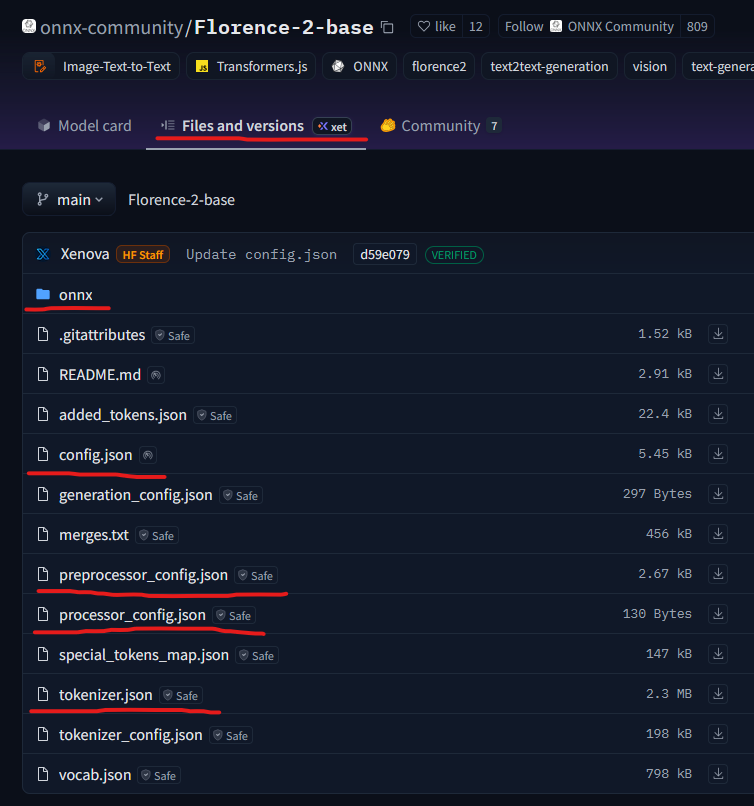
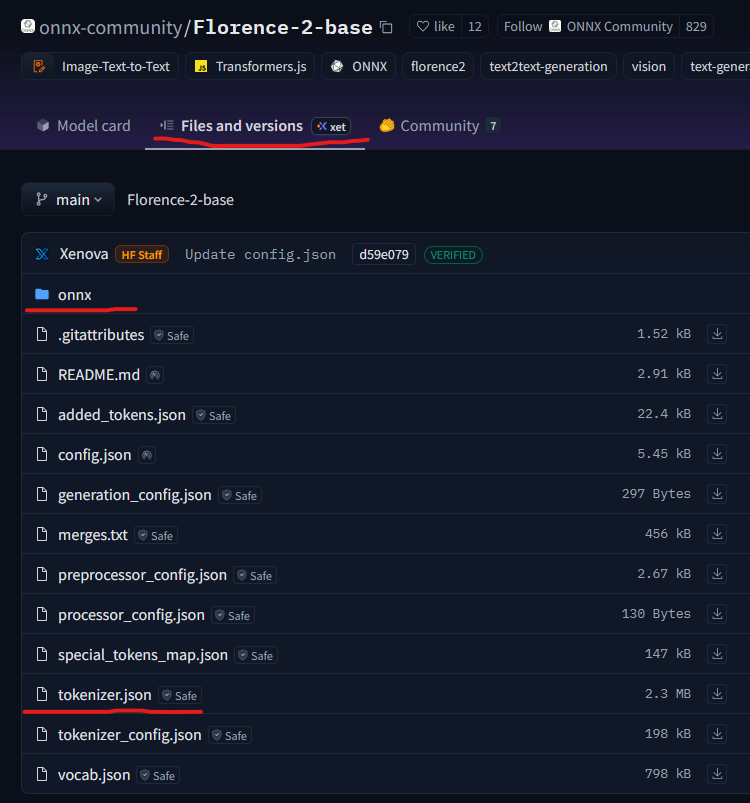
readme and code minor update

diff --git a/translate_overlay/interface/main_window.py b/translate_overlay/interface/main_window.py
@@ -169,11 +169,11 @@ class MainWindow(QMainWindow):
             self.controller.init_finished.connect(self._on_init_finished)
             self.controller.error_signal.connect(self._handle_error_message)
             self.controller.init_worker(
-                self.trd_path_edit.text(),
+                self.trd_path_edit.text().strip(),
                 self.ocr_model_dropdown.currentText(),
-                self.ocr_path_edit.text(), 
+                self.ocr_path_edit.text().strip(), 
                 self.translate_model_dropdown.currentText(),
-                self.translate_path_edit.text(), 
+                self.translate_path_edit.text().strip(), 
                 self.source_lang_dropdown.currentText(),
                 self.target_lang_dropdown.currentText(),
                 self.beam_size_spin.value(),
@@ -273,9 +273,9 @@ if __name__ == "__main__":
     window = MainWindow(
         trd_path="E:\\work\\1-personal\\CRAFT-onnx\\models",
         ocr_path="E:\\work\\1-personal\\Florence-2-base\\onnx\\onnx",
-        # translate_path="E:\\work\\1-personal\\madlad400-3b-mt\\onnx\\quantization\\optimum\\with_accelerate_weight_dedup",
+        translate_path="E:\\work\\1-personal\\madlad400-3b-mt\\onnx\\quantization\\optimum\\with_accelerate_weight_dedup",
         # translate_path="E:\\work\\1-personal\\gemma-3-1b-it-ONNX\\onnx",
-        translate_path="E:\\work\\1-personal\\gemma-3n-E2B-it-ONNX\\onnx",
+        # translate_path="E:\\work\\1-personal\\gemma-3n-E2B-it-ONNX\\onnx",
     )
     window.show()
     sys.exit(app.exec())

diff --git a/translate_overlay/translate/gemma3n.py b/translate_overlay/translate/gemma3n.py
@@ -2,7 +2,7 @@ import os
 import re
 import sys
 import json
-from typing import List
+from typing import List, Dict
 
 import numpy as np
 import onnxruntime as ort
@@ -167,7 +167,7 @@ class Gemma3nTranslator(BaseTranslator):
         )
     
 
-    def _embedding(self, input_ids: np.ndarray) -> np.ndarray:
+    def _embedding(self, input_ids: np.ndarray) -> Dict:
         inputs_embeds, per_layer_inputs = self.embed_session.run(None, {"input_ids": input_ids})
 
         return {"inputs_embeds": inputs_embeds, "per_layer_inputs": per_layer_inputs}

diff --git a/translate_overlay/text_region_detect/craft.py b/translate_overlay/text_region_detect/craft.py
@@ -1,3 +1,6 @@
+# Pre and post processing functions from code implementation from CRAFT by Clova AI Research, NAVER Corp.
+# https://github.com/clovaai/CRAFT-pytorch/blob/master/craft_utils.py
+
 import os
 import sys
 import math

diff --git a/README.md b/README.md
@@ -76,23 +76,13 @@ The tool is currently only designed to recognize horizontal machine-printed text
     ONNX model: https://huggingface.co/onnx-community/Florence-2-base
 
     Download following files:
-    - config.json
-    - preprocessor_config.json
-    - processing_florence2.py
-    - processor_config.json
     - tokenizer.json
     - embed_tokens_uint8.onnx
     - encoder_model_uint8.onnx
     - decoder_model_merged_uint8.onnx
     - vision_encoder_uint8.onnx
 
-    From ONNX community Hugging Face link: 
-
     <img width=500 src="translate_overlay/images/florence2_onnx_hf.png">
-
-    From Microsoft Hugging Face link:
-
-    <img width=500 src="translate_overlay/images/florence2_hf.png">
 
 
 #### Translation
@@ -160,8 +150,8 @@ The tool is currently only designed to recognize horizontal machine-printed text
 
 ### Todo
 
-- [ ] Create standalone executable.
-- [ ] Migrate processing code for Florence 2 from Hugging Face and remove Transformer dependency.
+- [x] Create standalone executable.
+- [x] Migrate processing code for Florence 2 from Hugging Face and remove Transformer dependency.
 - [ ] More options for text recognition for supporting more languages.
 - [ ] Better error handling.
-- [ ] Better text splitting.
+- [x] Better text splitting.
